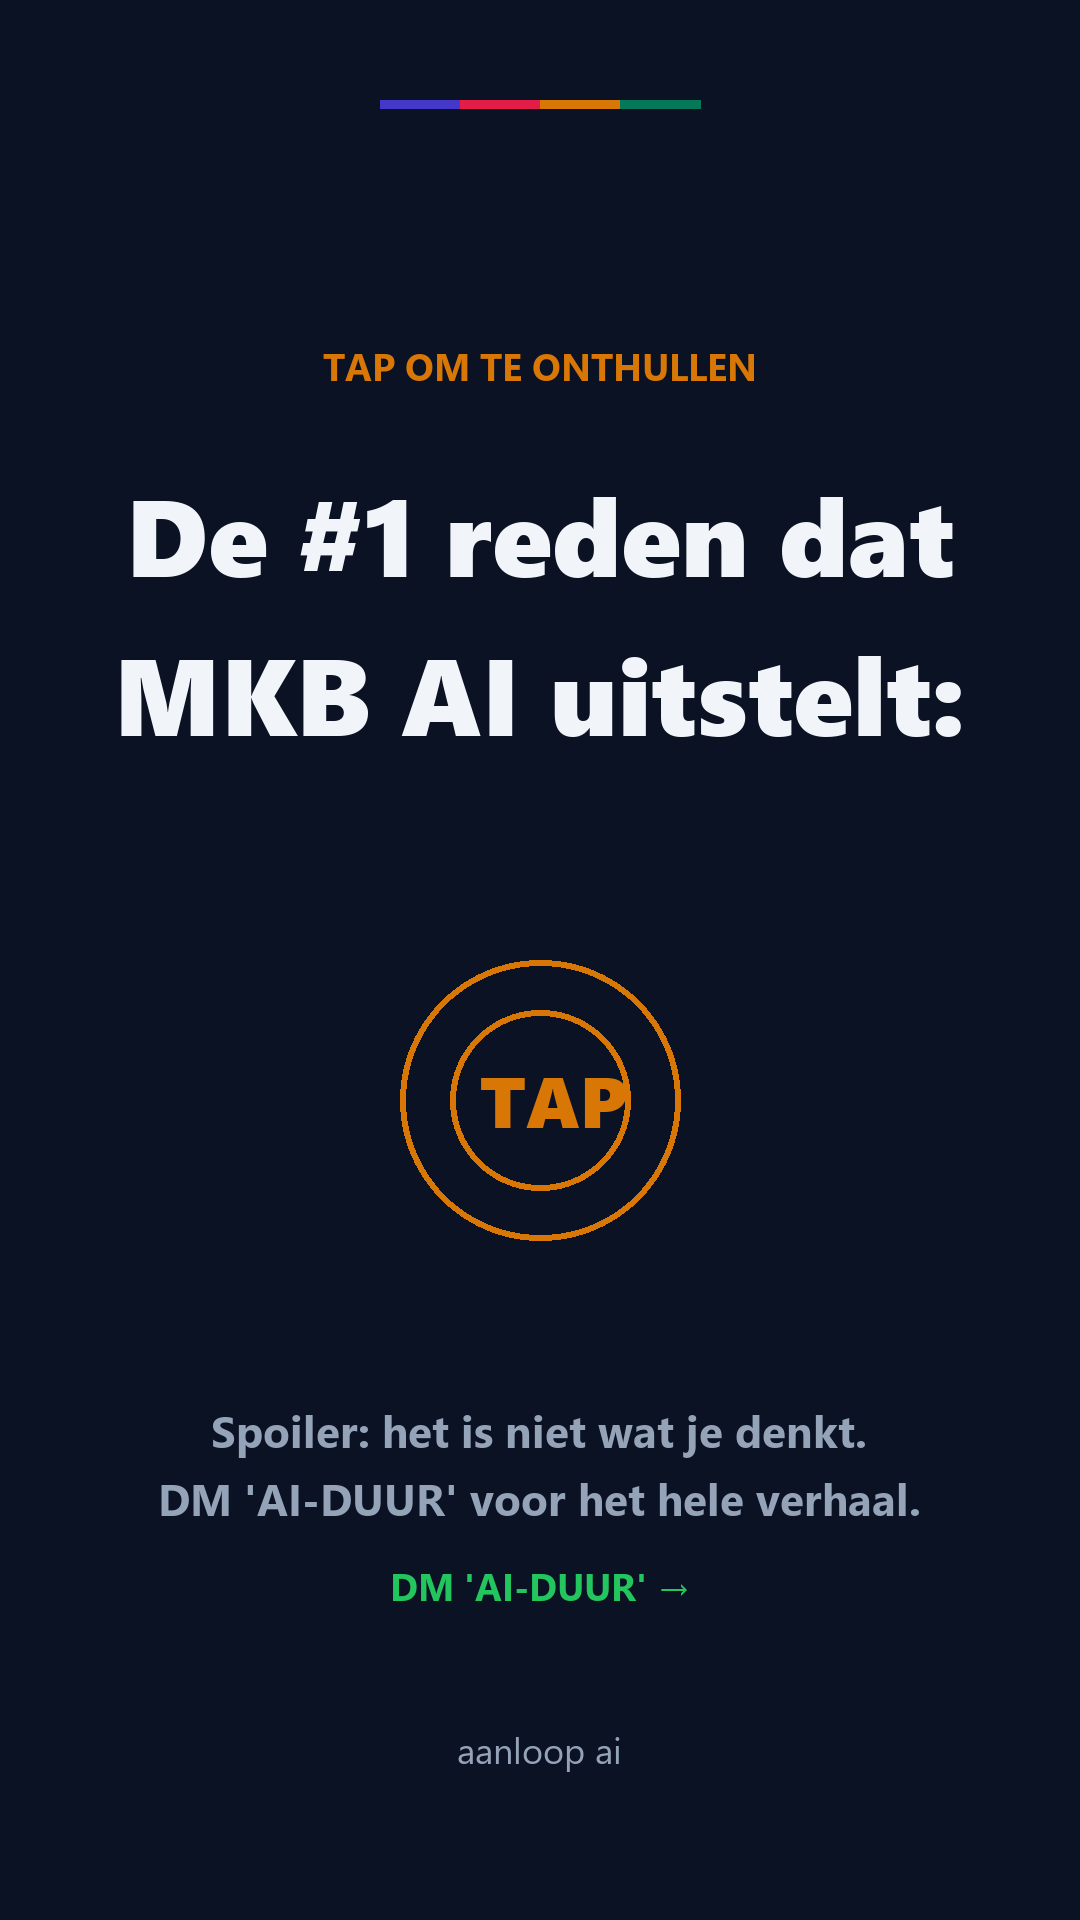
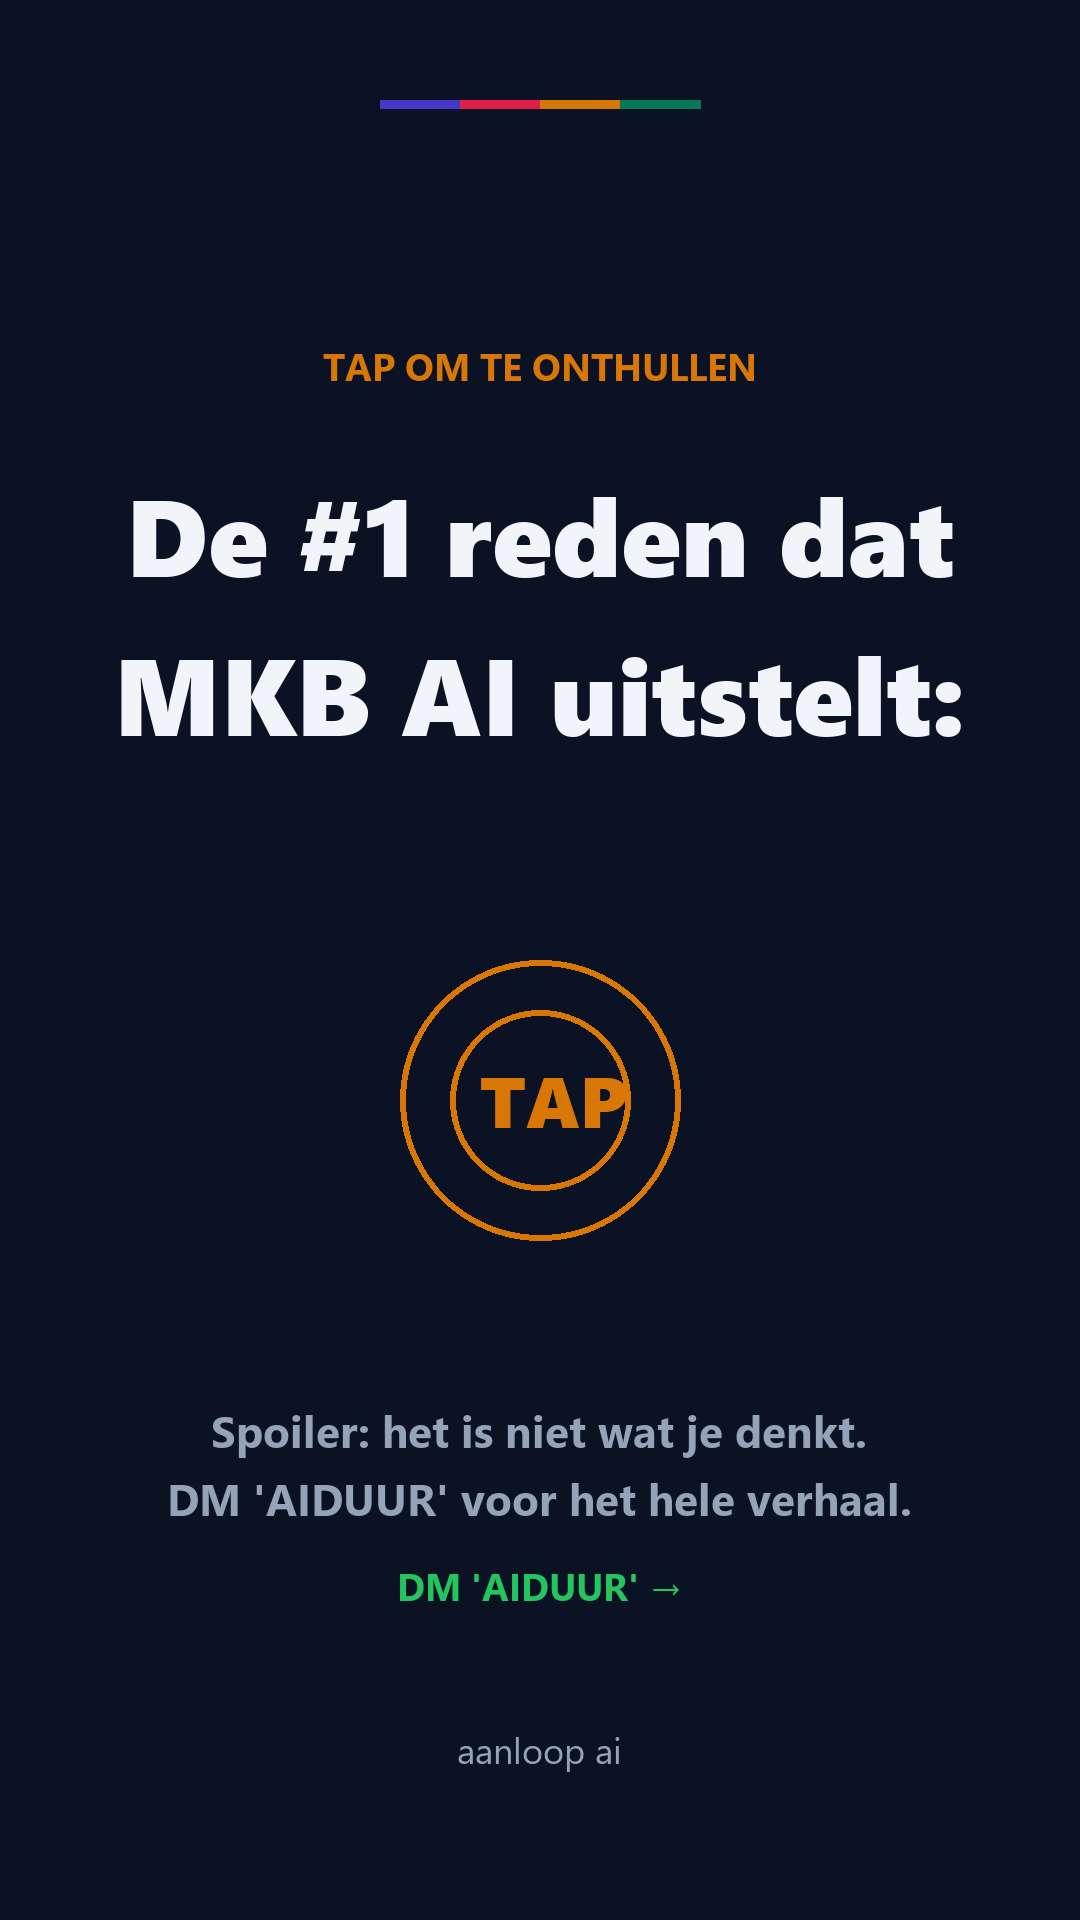
feat(ig-dm): Wave-5 keyword-routed DM responses + 9 new asset keywords
- dm-templates.json: added dm_assets section with 9 keyword-specific response
  variants (HORECA, ZORG, PROMPT, AVG, EMMA, FOUNDER, CIJFERS, AIDUUR, MARCO).
  2 rotation-variants each to avoid spam-pattern detection. UTM-tagged per
  keyword for conversion attribution.
- ig-dm-bot.mjs: pickTemplate() now accepts optional keyword arg; falls back to
  generic 'comment' template if keyword unknown. handleComment passes matched
  keyword. KEYWORDS env default extended with 9 new wave-5 keywords.
- AIDUUR keyword (no dash) for safer IG-comment matching; stories CTA updated.

Backwards-compat: existing welcome/comment/mention templates untouched. Bots
running older dm-templates.json continue working (dm_assets is optional).

Changed region(s): [[0.1528, 0.75, 0.8556, 0.8438]]

diff --git a/marketing/instagram/dm-assets/README.md b/marketing/instagram/dm-assets/README.md
@@ -15,7 +15,7 @@ or hosted landing page. The bot quotes the link in the DM reply.
 | `EMMA` | Emma 14-dagen implementatie-roadmap | `dm-assets/emma-roadmap.pdf` → `aanloopai.nl/dl/emma-roadmap` |
 | `FOUNDER` | Wekelijkse founder-notities subscriptie + huidige editie | DM-only (geen PDF) |
 | `CIJFERS` | MKB-AI cijfer-rapport 2026 (5 CBS/KvK/Salesforce stats + bronnen) | `dm-assets/mkb-ai-cijfers-2026.pdf` → `aanloopai.nl/dl/mkb-ai-cijfers` |
-| `AI-DUUR` | Waarom MKB AI uitstelt — 1-pager analyse | `dm-assets/waarom-ai-uitstel.pdf` → `aanloopai.nl/dl/waarom-uitstel` |
+| `AIDUUR` | Waarom MKB AI uitstelt — 1-pager analyse | `dm-assets/waarom-ai-uitstel.pdf` → `aanloopai.nl/dl/waarom-uitstel` |
 | `MARCO` | Marco demo + Calendly intake-link | Direct link, geen PDF |
 | `AUDIT` | Gratis 15-min AI-audit Calendly | Direct link |
 | `DEMO` | Marco/Emma demo-video + Calendly | Direct link |
@@ -35,7 +35,7 @@ or hosted landing page. The bot quotes the link in the DM reply.
 Update `scripts/ig-dm-bot.mjs` env:
 
 ```
-COMMENT_KEYWORDS=HORECA,ZORG,PROMPT,AVG,EMMA,FOUNDER,CIJFERS,AI-DUUR,MARCO,AUDIT,DEMO,BILGI,INFO
+COMMENT_KEYWORDS=HORECA,ZORG,PROMPT,AVG,EMMA,FOUNDER,CIJFERS,AIDUUR,MARCO,AUDIT,DEMO,BILGI,INFO
 ```
 
 Templates extended in `marketing/instagram/dm-templates.json` — keyword-specific
